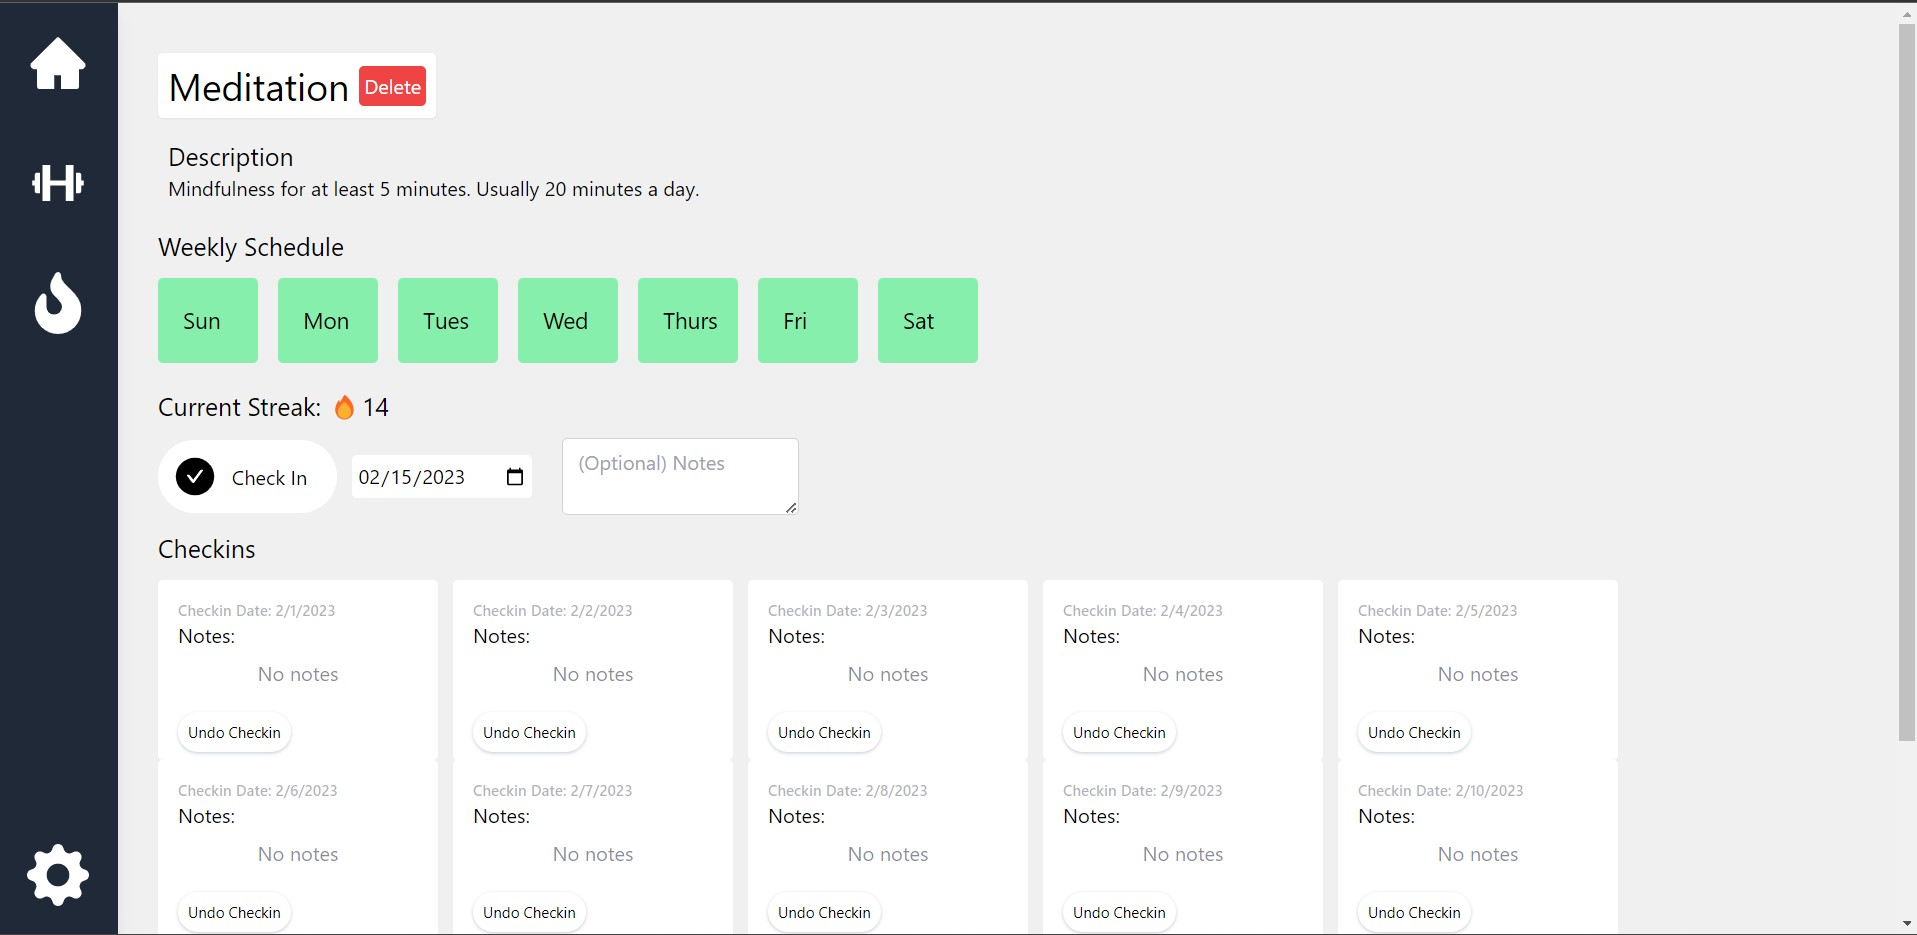
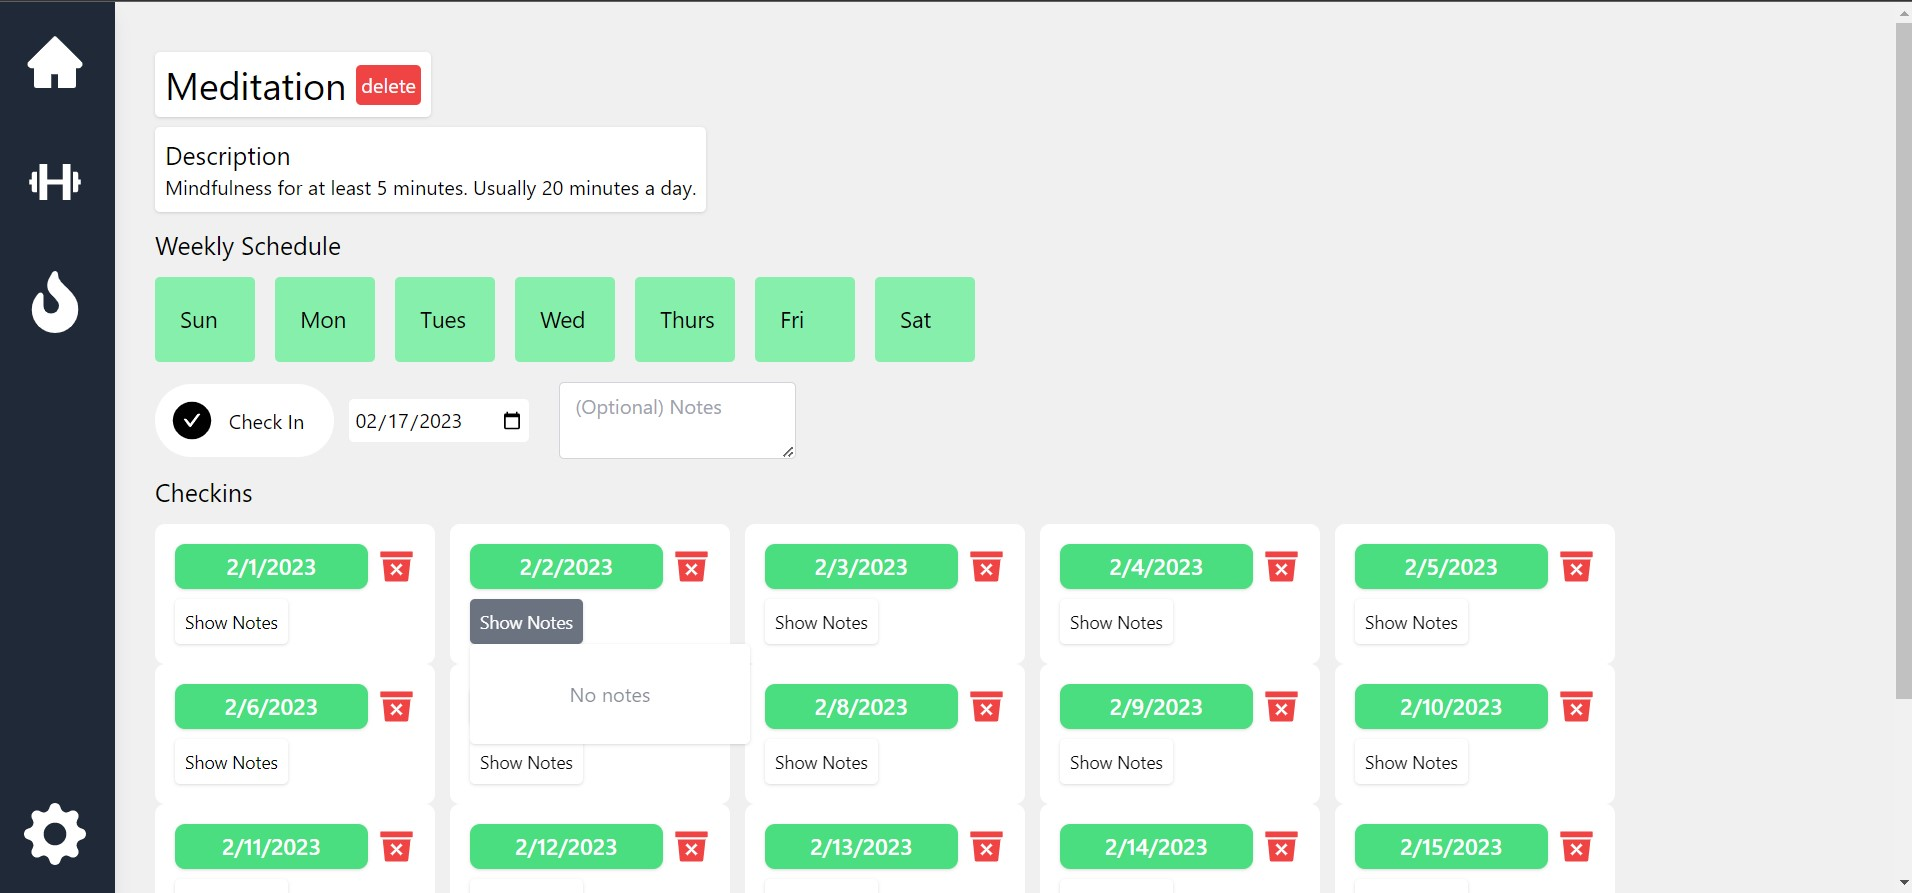
updated readme

diff --git a/README.md b/README.md
@@ -12,18 +12,18 @@ Track your habits and checkin everyday to maintain the streak.
 5. Yearly view of habit checkins, similar to github activity log
 
 ## To Do:
-\#4: Calculate streaks based on habit schedule
 
-Add all streaks and highlights in the streaks tab. So anytime there is a streak even of length 2, show it in that tab for each habit
-
-Implement: Stopped habits feature where user cant checkin, but can see the checkin history
+Add Highlights in streaks for top 3 longest streaks if the user even has 3 set of streaks
+Stop habit feature: user cant checkin anymore, but can see the checkin history for a habit they stopped doing
 
 __ISSUES__:
 If the checkin button is clicked multiple times very quickly, the browser doesnt have enough time to check that the user already signed in.
-^^ Solution: make a checkins state and also for 
 
 Caching API calls for SSR is not working as intended.
 
 ![alt text](frontend/public/s1.jpg)
 ![alt text](frontend/public/s2.jpg)
 ![alt text](frontend/public/s3.jpg)
+
+Streaks: Still in progress in terms of design, but works with weekly schedule now
+![alt text](frontend/public/s4.jpg)
